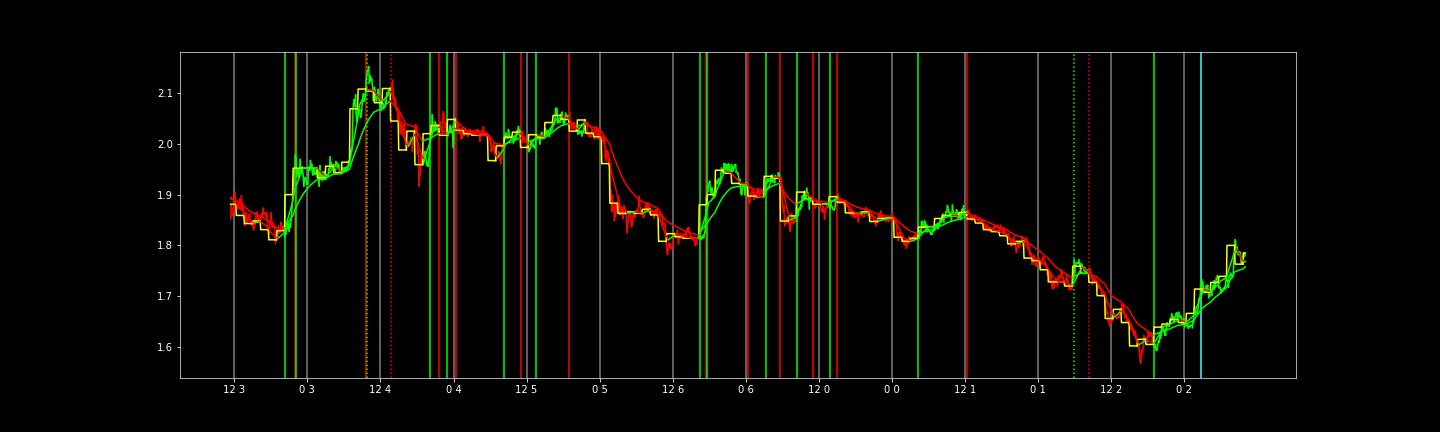
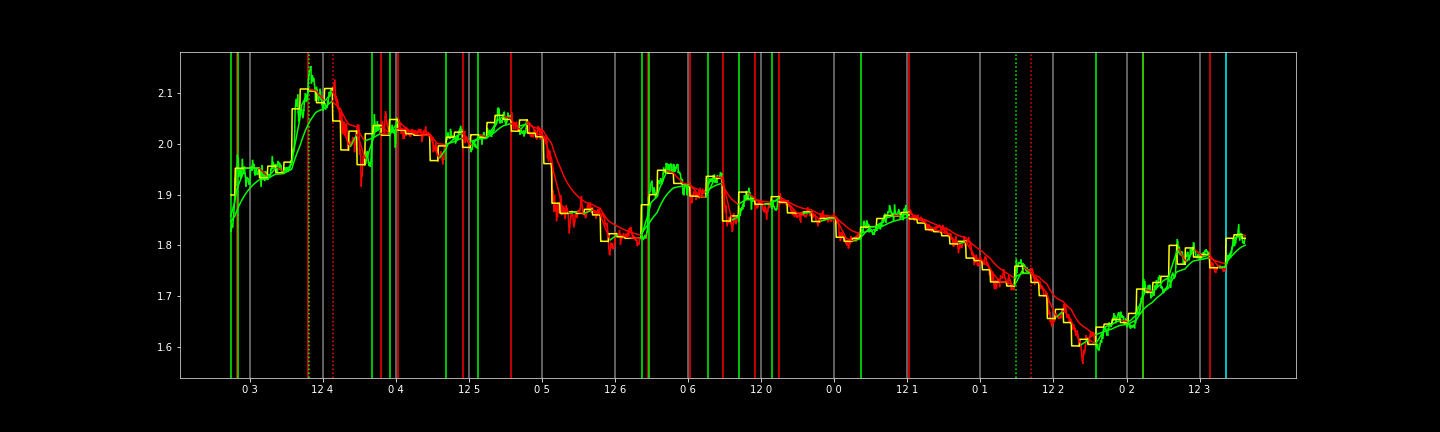
a

Changed region(s): [[0.1562, 0.1204, 0.875, 0.9028], [0.4062, 0.8727, 0.4375, 0.9028]]

diff --git a/TraderControl.py b/TraderControl.py
@@ -10,6 +10,7 @@ import requests as req
 from threading import Timer
 from datetime import datetime
 import threading
+from threading import Timer
 import time
 from colorama import Fore, Style, Back, init
 
@@ -130,6 +131,29 @@ class TraderControl:
     def timed_sleeper(self,tm,offset,part,closetime):
         if(tm == 0 or tm<0):
             print("Running In OFFSET:",offset) 
+            #time.sleep(offset)
+            t = Timer(offset, self.run_strategies)
+            t.start()
+        else:
+            self.server_time = self.tb.get_current_server_time()/1000
+            difference = closetime-self.server_time
+            if(difference<=0):
+                self.timed_sleeper(0,offset,part,closetime)
+            else:
+                if(difference>=part):
+                    print("Difference",difference,"Sleeping",part)
+                    t = Timer(part, self.timed_sleeper,(1,offset,part,closetime))
+                    t.start()
+                else:
+                    print("Difference",difference,"Sleeping",difference)
+                    t = Timer(difference, self.timed_sleeper,(1,offset,part,closetime))
+                    t.start()
+
+
+
+        '''
+        if(tm == 0 or tm<0):
+            print("Running In OFFSET:",offset) 
             time.sleep(offset)
             self.run_strategies()
         else:
@@ -147,36 +171,6 @@ class TraderControl:
                     time.sleep(difference)
                     self.timed_sleeper(1,offset,part,closetime)
         '''
-        if(tm==0):
-            print("Running In OFFSET:",offset) 
-            time.sleep(offset)
-            self.run_strategies()
-        else:
-            newTm = -1
-            sleepVal = -1
-            
-            if(tm>0):
-                if(tm>part):
-                    sleepVal = part
-                    newTm = tm-part
-                elif(tm<part):
-                    newTm  =0
-                    sleepVal = tm
-                else:
-                    newTm = 0
-                    sleepVal = part
-                print("New Time",newTm,"Sleeping",sleepVal) 
-                time.sleep(sleepVal)
-                self.timed_sleeper(newTm,offset,part)
-            
-            else:
-                self.timed_sleeper(0,offset,part)    
-                
-            '''    
-            
-            
-            
-    
                        
     def run_strategies(self):
         self.api_call_count = self.api_call_count +1
